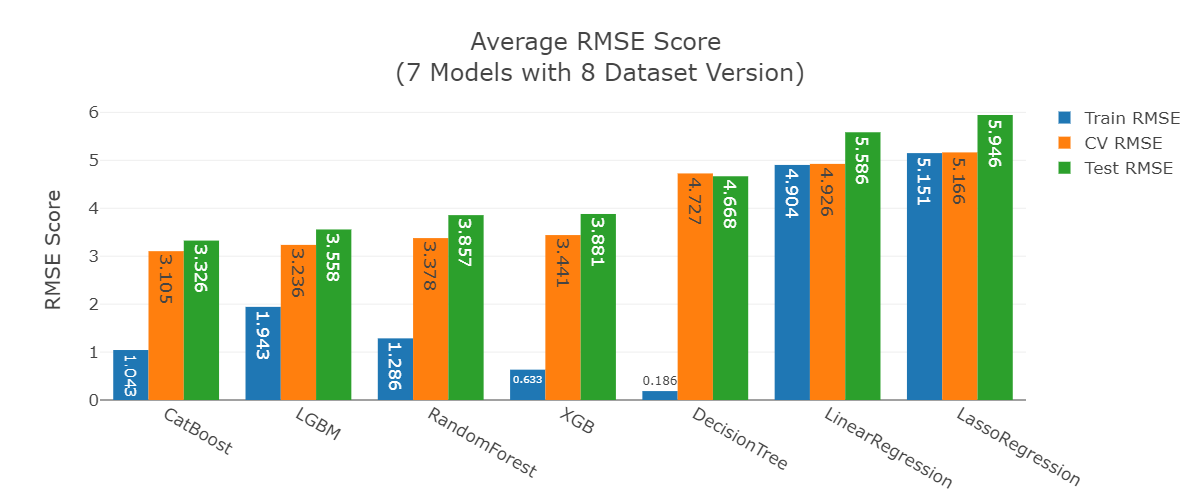
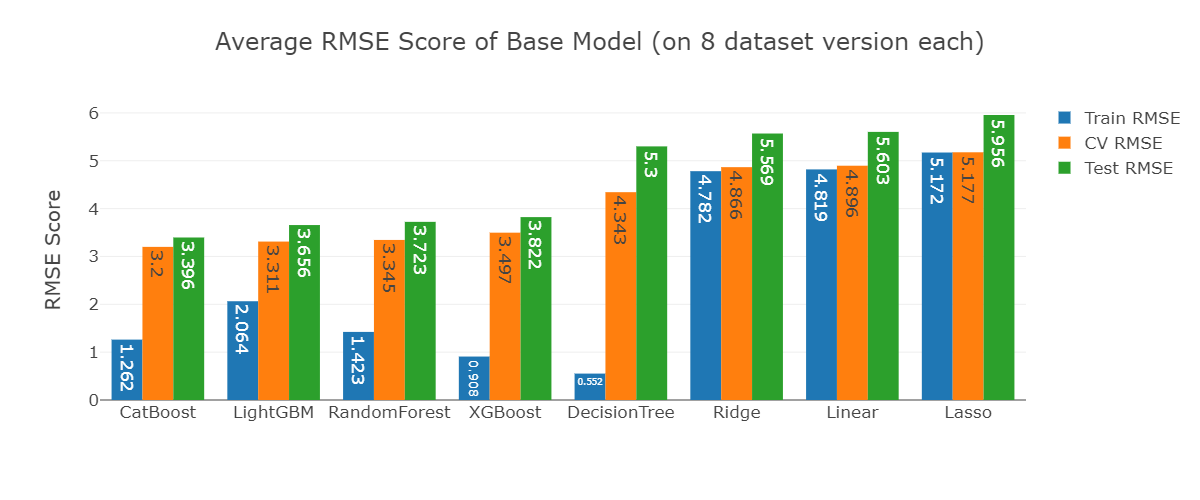
Update summary visualization

diff --git a/scripts/Model_Summary.py b/scripts/Model_Summary.py
@@ -30,15 +30,12 @@ ver3 = pd.read_csv('../data/processed/summary_imputed_all.csv')
 ver4 = pd.read_csv('../data/processed/summary_imputed_selected.csv')
 
 df_all_ver = pd.concat([ver1, ver2, ver3, ver4], axis=0)
-df_all_ver.sort_values(by='Test RMSE', inplace=True)
+df_all_ver.sort_values(by='CV RMSE', inplace=True)
 df_all_ver = round(df_all_ver, 3)
-df_all_ver.head()
+df_all_ver.head(10)
 
 # %% cell_id="00002-fda41ab5-1578-4759-95fd-34bbab934939" execution_millis=82 execution_start=1602829944018 output_cleared=false source_hash="a46fdaaf"
 df_all_ver['Dataset Version'].unique()
-
-# %%
-df_all_ver["Model"] = df_all_ver["Model"].str.replace("Regressor", "")
 
 # %% cell_id="00003-7d415f67-fe9a-4bb4-9bee-fa5d53ac3de1" execution_millis=115 execution_start=1602852201510 output_cleared=false source_hash="69479740" tags=[]
 grouped = df_all_ver.groupby(['Model'], as_index=False)[['Train RMSE', 'CV RMSE', 'Test RMSE']].mean()
@@ -85,7 +82,11 @@ fig = px.bar(
     barmode='group', category_orders=order_all, text='Test RMSE'
 )
 
-fig.update_layout(title='RMSE Score on Test Set')
+fig.update_layout(
+    title='RMSE Score on Test Set', 
+    height=500,
+    width=1200
+)
 
 fig.show()
 

diff --git a/markdown/Model_Summary.md b/markdown/Model_Summary.md
@@ -31,17 +31,13 @@ ver3 = pd.read_csv('../data/processed/summary_imputed_all.csv')
 ver4 = pd.read_csv('../data/processed/summary_imputed_selected.csv')
 
 df_all_ver = pd.concat([ver1, ver2, ver3, ver4], axis=0)
-df_all_ver.sort_values(by='Test RMSE', inplace=True)
+df_all_ver.sort_values(by='CV RMSE', inplace=True)
 df_all_ver = round(df_all_ver, 3)
-df_all_ver.head()
+df_all_ver.head(10)
 ```
 
 ```python cell_id="00002-fda41ab5-1578-4759-95fd-34bbab934939" execution_millis=82 execution_start=1602829944018 output_cleared=false source_hash="a46fdaaf"
 df_all_ver['Dataset Version'].unique()
-```
-
-```python
-df_all_ver["Model"] = df_all_ver["Model"].str.replace("Regressor", "")
 ```
 
 ```python cell_id="00003-7d415f67-fe9a-4bb4-9bee-fa5d53ac3de1" execution_millis=115 execution_start=1602852201510 output_cleared=false source_hash="69479740" tags=[]
@@ -90,7 +86,11 @@ fig = px.bar(
     barmode='group', category_orders=order_all, text='Test RMSE'
 )
 
-fig.update_layout(title='RMSE Score on Test Set')
+fig.update_layout(
+    title='RMSE Score on Test Set', 
+    height=500,
+    width=1200
+)
 
 fig.show()
 ```
